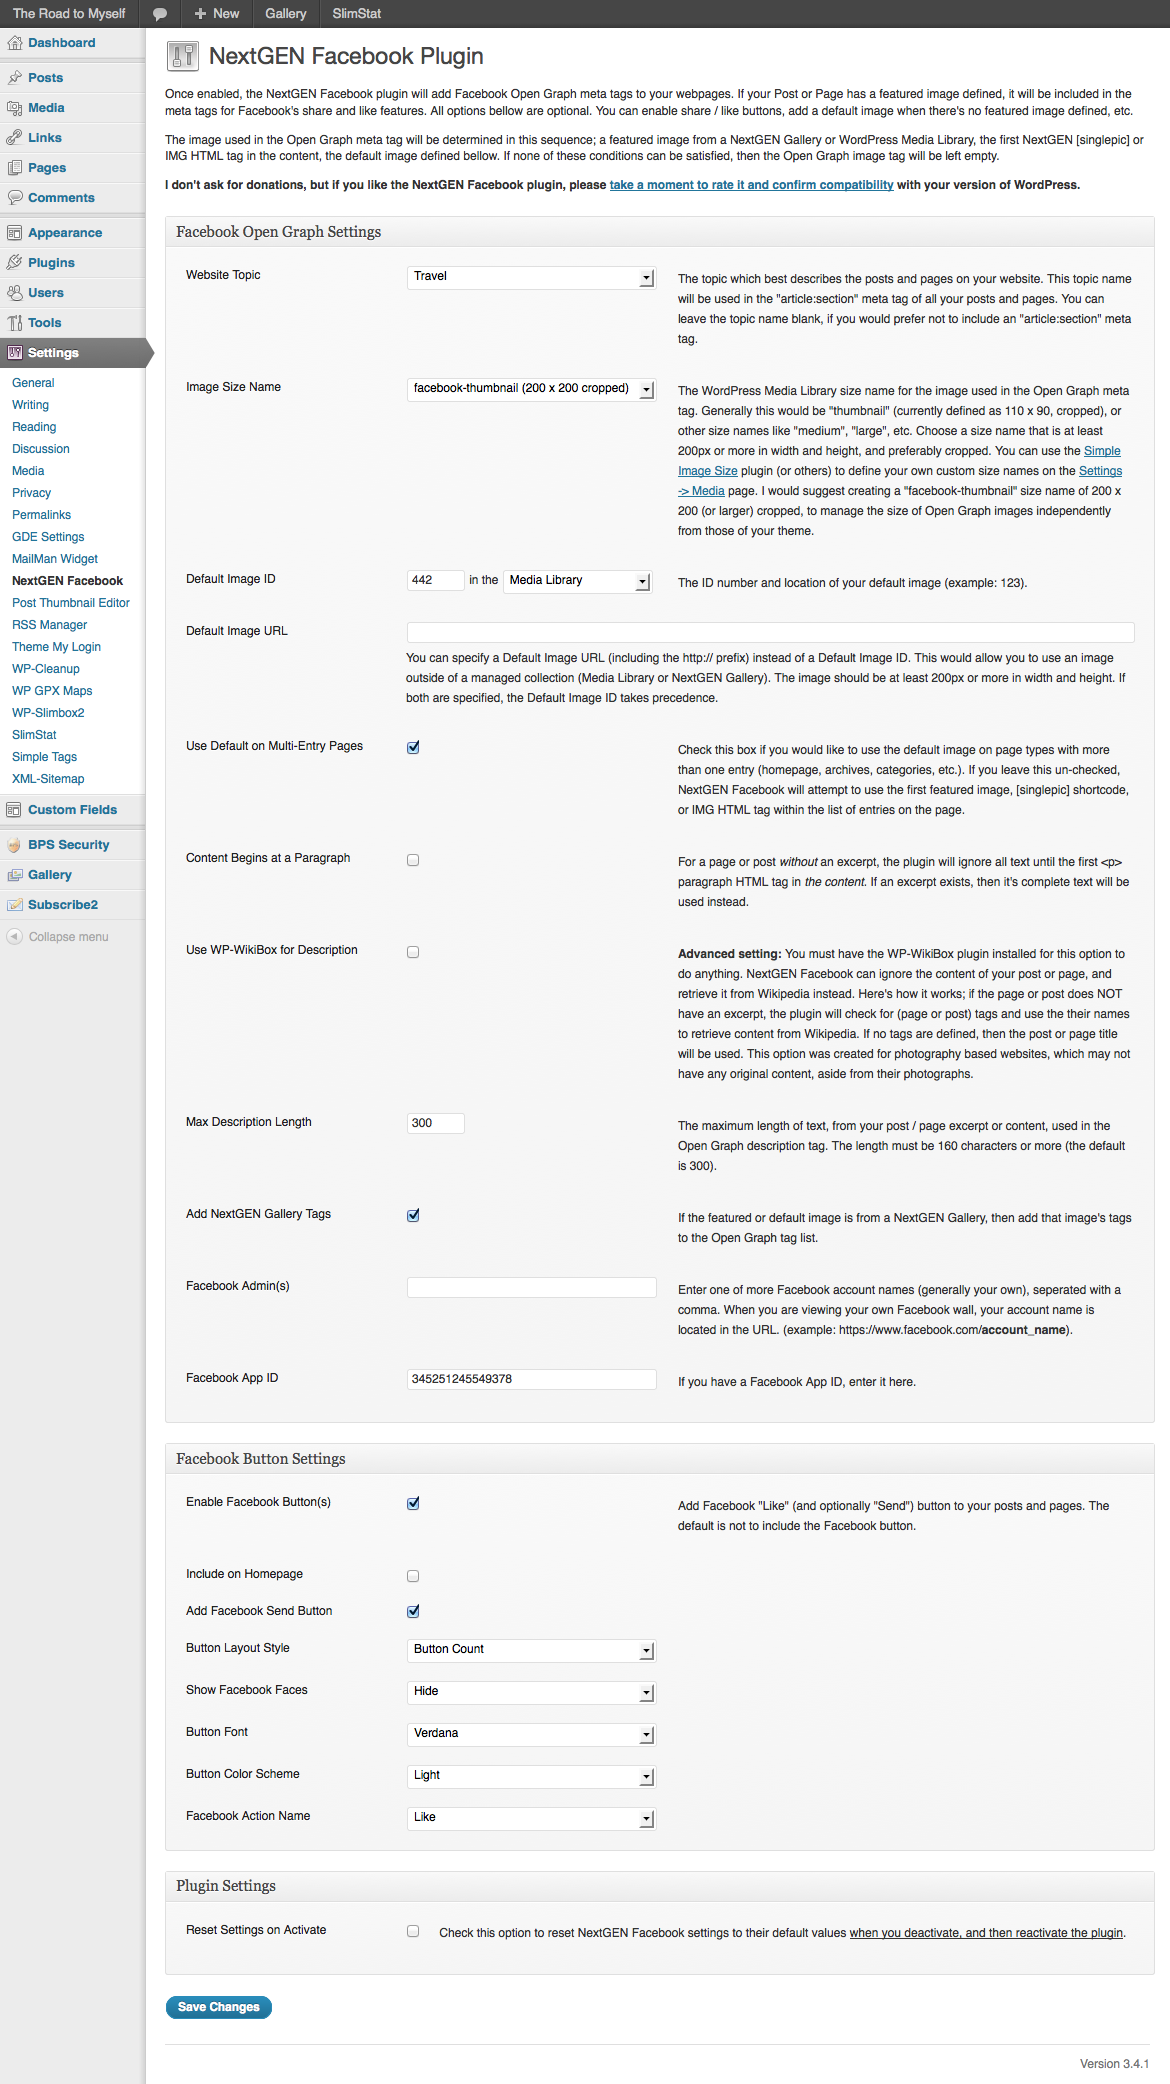
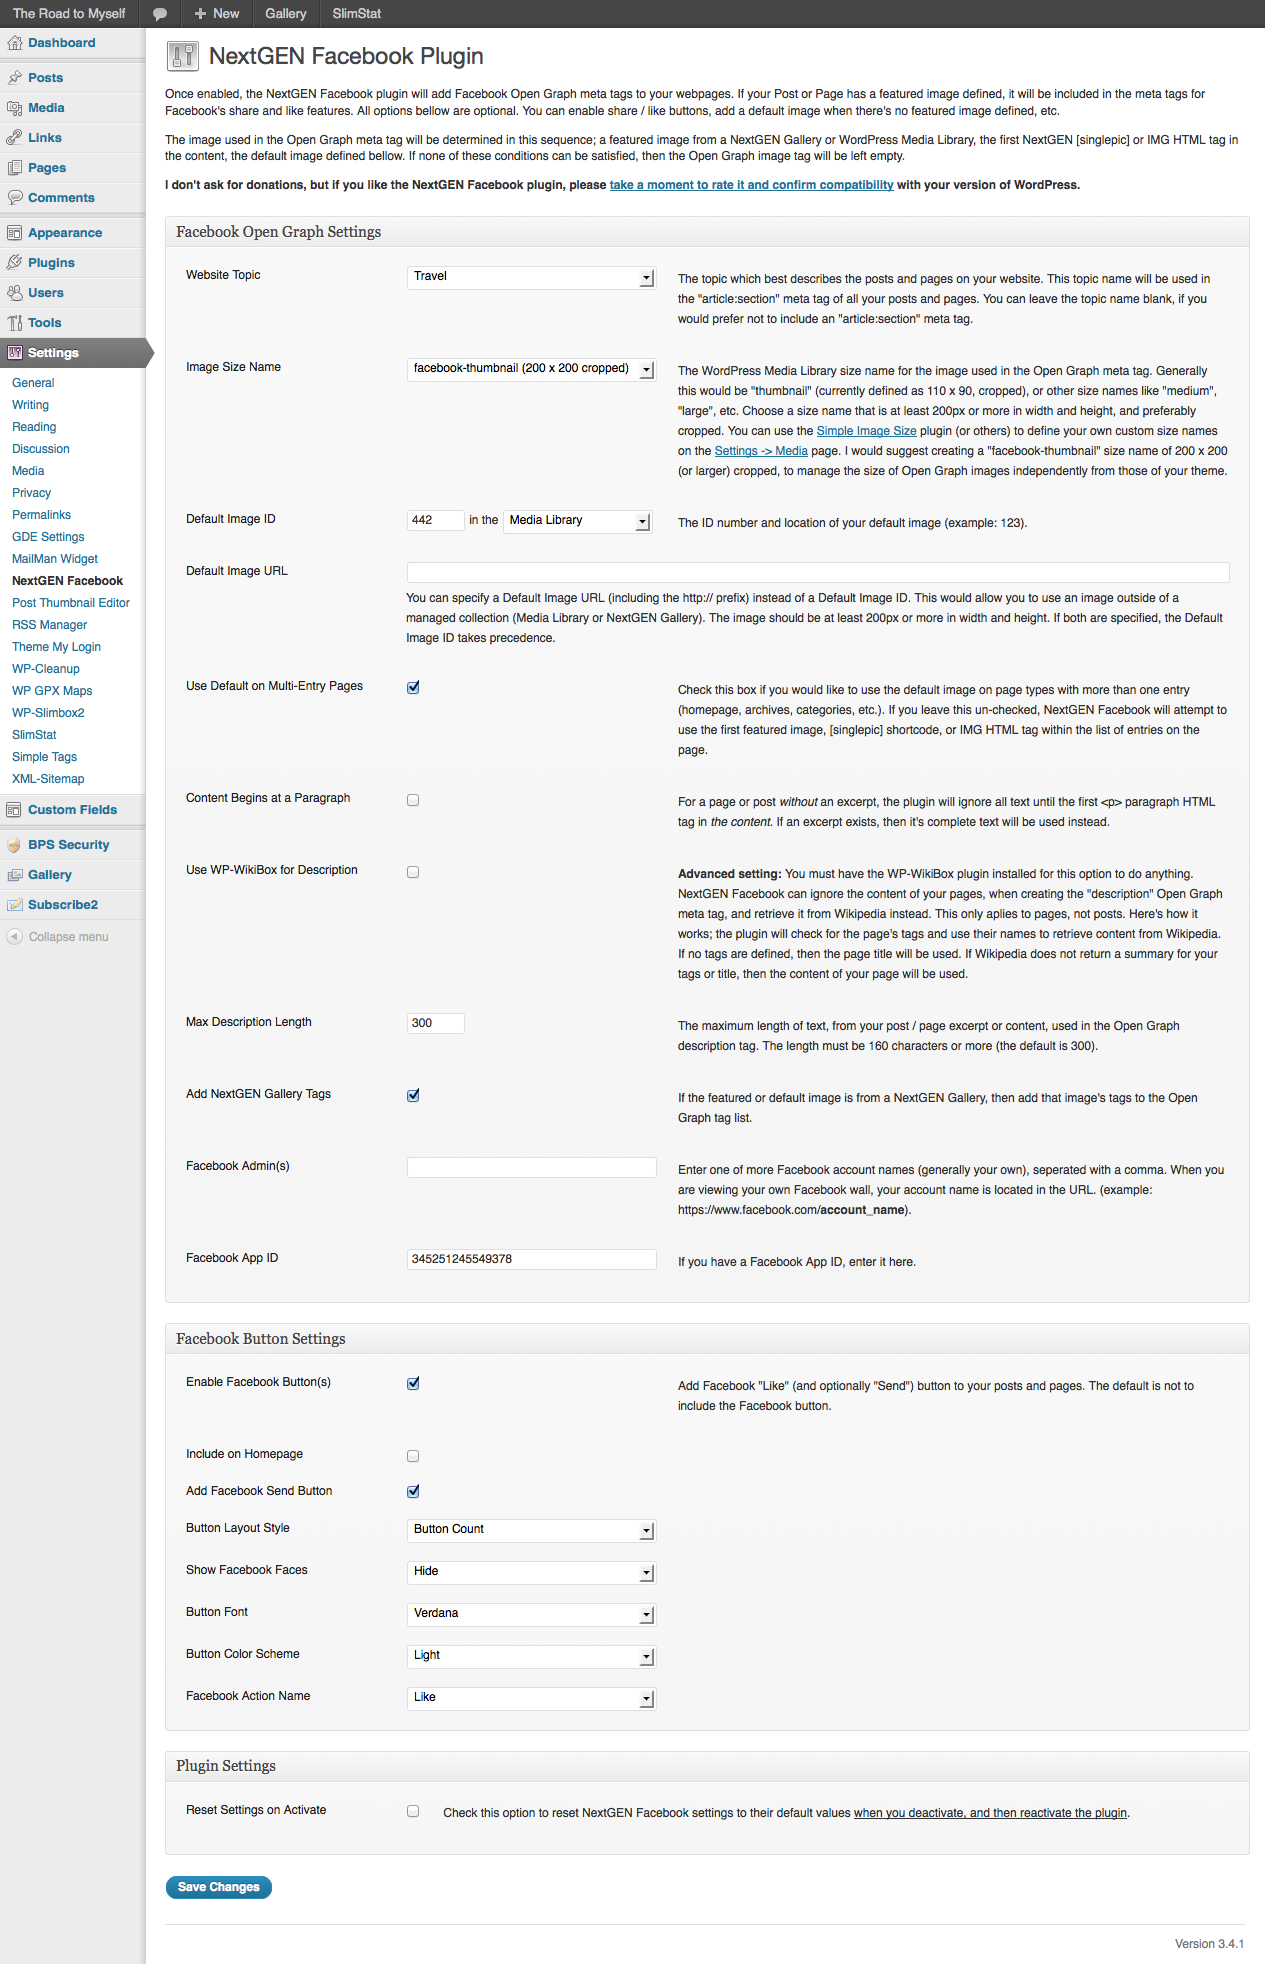
screenshot upd
git-svn-id: https://plugins.svn.wordpress.org/nextgen-facebook/trunk@580408 b8457f37-d9ea-0310-8a92-e5e31aec5664

diff --git a/nextgen-facebook.php b/nextgen-facebook.php
@@ -370,7 +370,7 @@ function ngfb_render_form() {
 				</td><td>
 					<p><strong>Advanced setting:</strong> You must have the
 					WP-WikiBox plugin installed for this option to do anything.
-					NextGEN Facebook can ignore the content of your pages when
+					NextGEN Facebook can ignore the content of your pages, when
 					creating the "description" Open Graph meta tag, and
 					retrieve it from Wikipedia instead. This only aplies to
 					pages, not posts. Here's how it works; the plugin will
